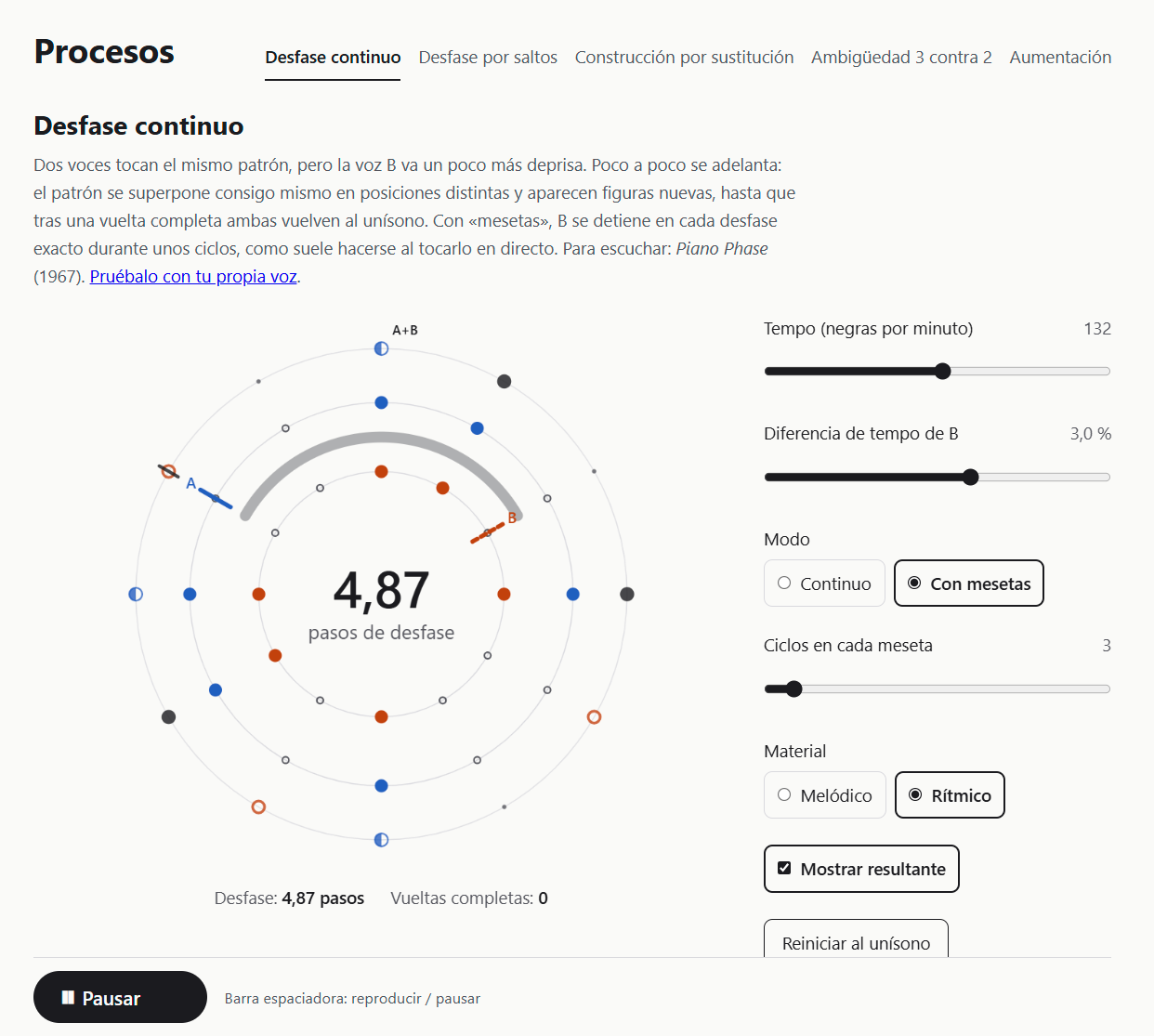
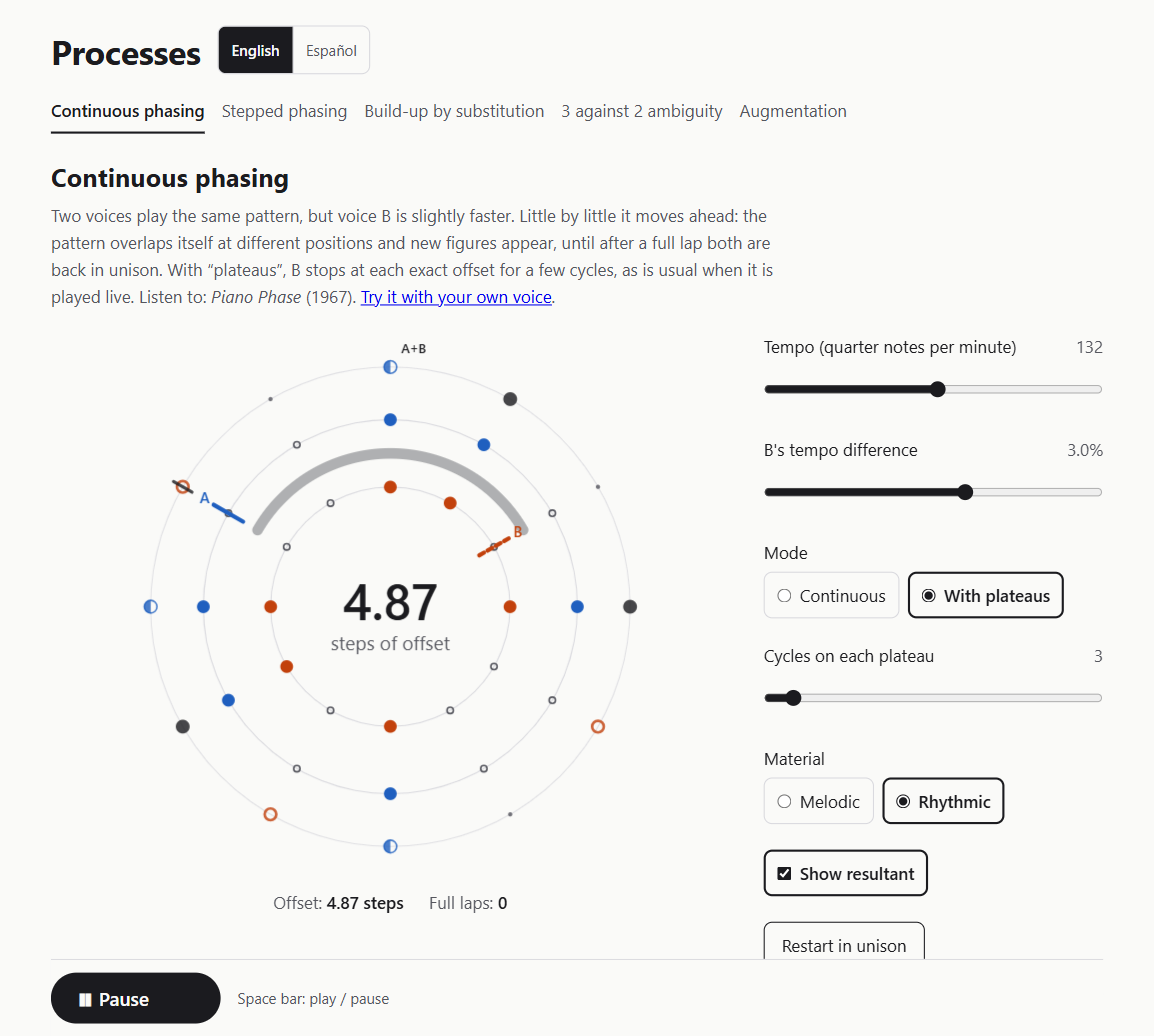
README: screenshot of the English interface
Same view as before (continuous phasing with plateaus, rhythmic material,
resultant shown, offset 4.87), now in English, the default language.

diff --git a/README.es.md b/README.es.md
@@ -8,7 +8,7 @@ Cada módulo combina sonido generado en tiempo real, una visualización sincroni
 
 **Pruébala:** https://luisnvb.dev/phase-lab/ — en inglés o en español (selector junto al título).
 
-![Módulo de desfase continuo en modo «con mesetas»: dos anillos concéntricos con los pasos de las voces A y B, el arco del desfase (4,87 pasos) y un anillo exterior con la resultante; a la derecha, los controles.](docs/screenshot.png)
+![Módulo de desfase continuo (interfaz en inglés) en modo «con mesetas»: dos anillos concéntricos con los pasos de las voces A y B, el arco del desfase (4,87 pasos) y un anillo exterior con la resultante; a la derecha, los controles.](docs/screenshot.png)
 
 ## Módulos
 

diff --git a/SPEC.es.md b/SPEC.es.md
@@ -357,7 +357,6 @@ docs/              # captura para el README
 - En la sustitución, si se cambia el orden durante la reproducción, los números de turno se actualizan antes que el sonido (menos de un ciclo).
 - No hay tests de componentes de interfaz; solo de la lógica pura, el motor y los procesos.
 - En GitHub pueden quedar en caché los commits anteriores a la reescritura del correo (inaccesibles sin conocer su identificador).
-- La captura del README muestra la interfaz en español (v0.5).
 
 ### Ideas para una posible versión 0.6 (por decidir)
 - Seleccionar un subconjunto de la resultante para aislar una línea emergente (previsto como «posterior» en §5).

diff --git a/SPEC.md b/SPEC.md
@@ -357,7 +357,6 @@ docs/              # screenshot for the README
 - In substitution, if the order is changed during playback, the turn numbers update before the sound (less than one cycle).
 - No interface component tests; only of the pure logic, the engine and the processes.
 - GitHub may keep cached commits from before the email rewrite (inaccessible without knowing their identifier).
-- The README screenshot shows the Spanish interface (v0.5).
 
 ### Ideas for a possible version 0.6 (to be decided)
 - Select a subset of the resultant to isolate an emerging line (planned as "later" in §5).
